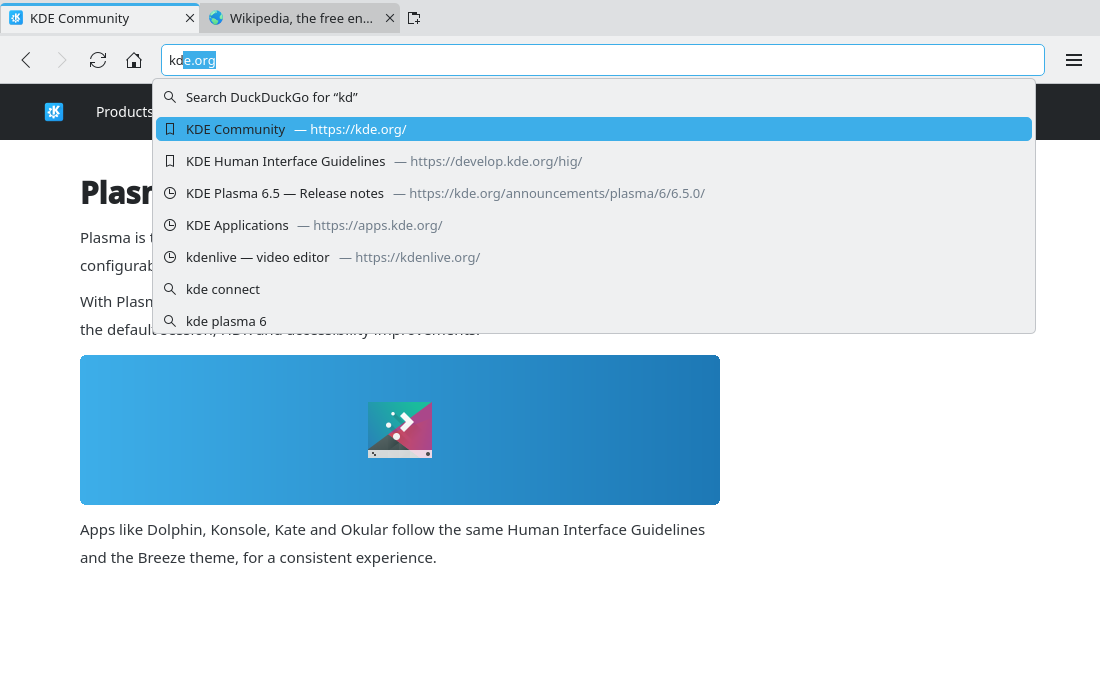
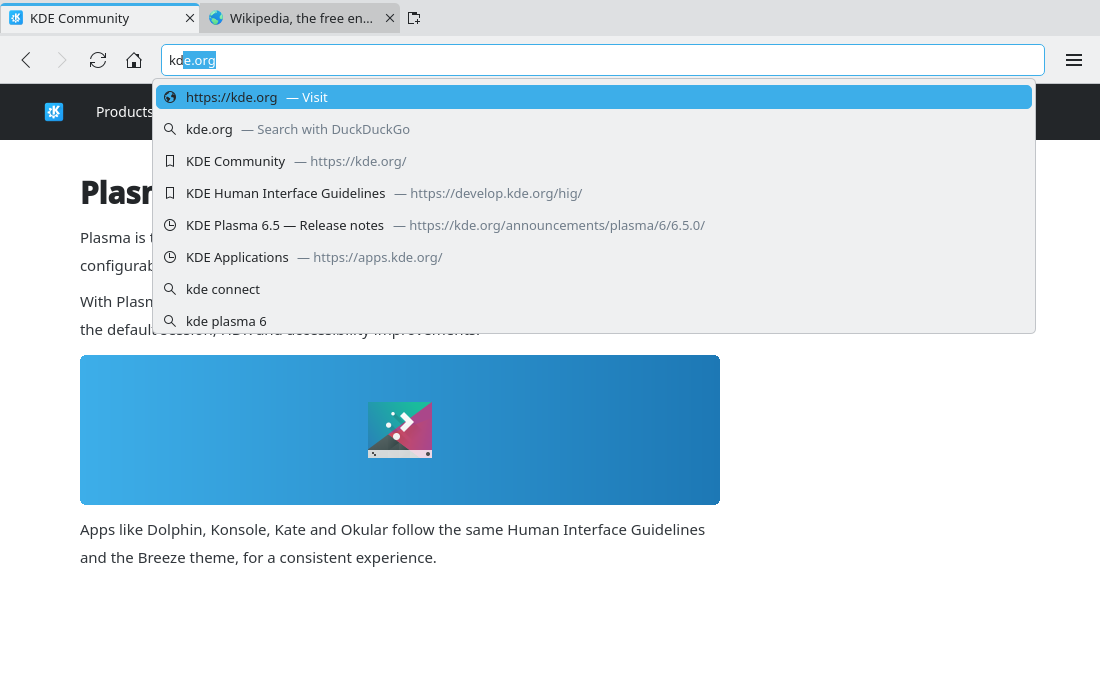
docs: specify the visit-or-search address dropdown (#44) and build #11 on it

Changed region(s): [[0.1236, 0.12, 0.9582, 0.24], [0.1855, 0.27, 0.6491, 0.33], [0.1545, 0.36, 0.4327, 0.39]]

diff --git a/prototypes/11-address-suggestions.qml b/prototypes/11-address-suggestions.qml
@@ -23,12 +23,12 @@ BrowserFrame {
             spacing: 0
             Repeater {
                 model: [
-                    { i: "edit-find", t: "Search DuckDuckGo for “kd”", u: "", sel: false },
-                    { i: "bookmarks", t: "KDE Community", u: "https://kde.org/", sel: true },
+                    { i: "globe", t: "https://kde.org", u: "", s: "Visit", sel: true },
+                    { i: "edit-find", t: "kde.org", u: "", s: "Search with DuckDuckGo", sel: false },
+                    { i: "bookmarks", t: "KDE Community", u: "https://kde.org/", sel: false },
                     { i: "bookmarks", t: "KDE Human Interface Guidelines", u: "https://develop.kde.org/hig/", sel: false },
                     { i: "view-history", t: "KDE Plasma 6.5 — Release notes", u: "https://kde.org/announcements/plasma/6/6.5.0/", sel: false },
                     { i: "view-history", t: "KDE Applications", u: "https://apps.kde.org/", sel: false },
-                    { i: "view-history", t: "kdenlive — video editor", u: "https://kdenlive.org/", sel: false },
                     { i: "edit-find", t: "kde connect", u: "", sel: false },
                     { i: "edit-find", t: "kde plasma 6", u: "", sel: false }
                 ]
@@ -47,7 +47,13 @@ BrowserFrame {
                             elide: Text.ElideRight
                             Layout.fillWidth: true
                         }
-                        Item { visible: modelData.u === ""; Layout.fillWidth: true }
+                        Label {
+                            visible: modelData.u === "" && modelData.s !== undefined
+                            text: "— " + (modelData.s || "")
+                            color: highlighted ? Kirigami.Theme.highlightedTextColor : Kirigami.Theme.disabledTextColor
+                            Layout.fillWidth: true
+                        }
+                        Item { visible: modelData.u === "" && modelData.s === undefined; Layout.fillWidth: true }
                     }
                 }
             }

diff --git a/prototypes/44-address-visit-or-search.qml b/prototypes/44-address-visit-or-search.qml
@@ -1,0 +1,50 @@
+// #44 Address bar: visit or search — the typed text looks like an address, so the dropdown
+// offers "Visit" (selected, what Enter does) and "Search with <engine>".
+import QtQuick
+import QtQuick.Controls
+import QtQuick.Layouts
+import org.kde.kirigami as Kirigami
+import "common"
+
+BrowserFrame {
+    id: frame
+    address: "teste.com.br"
+    addressFocused: true
+    Component.onCompleted: { addressField.forceActiveFocus(); addressField.cursorPosition = 12 }
+    FakePage {}
+
+    Popup {
+        popupType: Popup.Item
+        x: frame.addressField.x
+        y: -6
+        width: frame.addressField.width
+        padding: 0
+        Component.onCompleted: open()
+        contentItem: ColumnLayout {
+            spacing: 0
+            Repeater {
+                model: [
+                    { i: "globe", t: "https://teste.com.br", s: "Visit", sel: true },
+                    { i: "edit-find", t: "teste.com.br", s: "Search with DuckDuckGo", sel: false }
+                ]
+                delegate: ItemDelegate {
+                    id: row
+                    required property var modelData
+                    Layout.fillWidth: true
+                    highlighted: modelData.sel
+                    contentItem: RowLayout {
+                        spacing: Kirigami.Units.largeSpacing
+                        Kirigami.Icon { source: row.modelData.i; Layout.preferredWidth: 16; Layout.preferredHeight: 16 }
+                        Label { text: row.modelData.t; elide: Text.ElideRight; Layout.maximumWidth: 420 }
+                        Label {
+                            text: "— " + row.modelData.s
+                            color: row.highlighted ? Kirigami.Theme.highlightedTextColor : Kirigami.Theme.disabledTextColor
+                            elide: Text.ElideRight
+                            Layout.fillWidth: true
+                        }
+                    }
+                }
+            }
+        }
+    }
+}

diff --git a/docs/specs/0044-address-visit-or-search.md b/docs/specs/0044-address-visit-or-search.md
@@ -1,0 +1,107 @@
+# Address bar: choose between visiting and searching (#44)
+
+> **Issue:** [#44](https://github.com/lukasborges/kondor/issues/44) · **Priority:** P2 (medium) · **State:** see the issue's label (`to-spec` / `to-dev` / `in-review`).
+> Read [`AGENTS.md`](../../AGENTS.md) first. This file is the source of truth for the issue; only the architect edits it.
+
+## Objective
+
+When the typed text looks like an address (`teste.com.br`, `node.js`, `localhost:8080`), the
+address bar shows a dropdown with two choices: **Visit** the address (selected, what Enter does)
+and **Search with <engine>** for the same text. Today such text can only be visited; this lets
+the user search it with one key press (Down, Enter) or a click.
+
+## Context
+
+- `addressBar` (`qml/Main.qml`) is a `TextField`; `onAccepted` calls
+  `tabs.currentTab.navigateTo(ProfileManager.resolveAddress(text))`.
+- `resolveAddress()` (`src/addressresolver.{h,cpp}`, free function, unit-tested in
+  `tests/tst_addressresolver.cpp`) returns the home page for blank text, a URL for
+  `scheme://…`, `about:`, `data:` and host-like text (IP, `localhost`, `name.tld`, optional port
+  and path), else the search URL built from `Settings.searchUrlTemplate()`.
+- The engine is `Settings.searchEngine` (`duckduckgo`, `google`, `startpage`, `brave`, `custom`).
+- #11 (Address bar suggestions, later in the roadmap) will add history, bookmark and network rows
+  to the same dropdown. This issue creates that dropdown.
+
+## Design / behavior
+
+1. **Resolver split** (`src/addressresolver.{h,cpp}`), behavior of `resolveAddress()` unchanged:
+   - `QUrl addressUrl(const QString &text)`: the URL when the trimmed text is an address (the
+     `://` / `about:` / `data:` branch or the host regex), else an empty `QUrl`.
+   - `QUrl searchUrl(const QString &text, const QString &searchTemplate)`: always the search URL.
+   - `resolveAddress()` uses both. Add test cases for the two new functions to
+     `tests/tst_addressresolver.cpp` (address, search text, `node.js`, `localhost:8080`, blank).
+2. **QML access:** `ProfileManager` gets `Q_INVOKABLE QUrl addressUrl(const QString &text) const`
+   and `Q_INVOKABLE QUrl searchUrl(const QString &text) const` (the latter with
+   `Settings::instance()->searchUrlTemplate()`). `Settings` gets
+   `Q_INVOKABLE QString searchEngineName() const`: "DuckDuckGo", "Google", "Startpage",
+   "Brave Search", or `""` for a custom engine (and for an invalid custom URL, which falls back to
+   DuckDuckGo: return "DuckDuckGo" then).
+3. **`qml/AddressSuggestions.qml`** (new, in `QML_FILES`): a `Popup` under `addressBar`
+   (`x`/`width` of the field, `y` = its bottom), `padding: 0`, `focus: false` (the keyboard stays
+   in the field), `closePolicy: Popup.CloseOnEscape | Popup.CloseOnPressOutsideParent`.
+   - API: `property string text`, `property int currentIndex`, `readonly property var rows`,
+     `function activate(index)`, `signal navigate(url url)`.
+   - Rows, rebuilt when `text` changes, only when `ProfileManager.addressUrl(text)` is valid:
+     1. icon `globe`, main label `addressUrl.toDisplayString()`, dimmed suffix
+        `"— " + qsTr("Visit")`;
+     2. icon `edit-find`, main label = the trimmed text, dimmed suffix
+        `"— " + qsTr("Search with %1").arg(Settings.searchEngineName())`, or `"— " + qsTr("Search")`
+        when the name is empty.
+   - Each row is an `ItemDelegate` with `focusPolicy: Qt.NoFocus`, `highlighted` when it is the
+     current row, layout as in the prototype (16 px `Kirigami.Icon`, `Label`, dimmed `Label` in
+     `Kirigami.Theme.disabledTextColor`, `highlightedTextColor` when highlighted).
+4. **`Main.qml` wiring:**
+   - On `textEdited` (user typing only, not programmatic `text` changes): set the popup's `text`;
+     open it with `currentIndex: 0` when it has rows, close it otherwise.
+   - Close it on `activeFocus` loss, blank text, tab switch and after navigating.
+   - `Keys.onDownPressed` / `Keys.onUpPressed` while it is open: move `currentIndex` between 0 and
+     1 (no wrap) and accept the event; when it is closed they keep their current behavior.
+   - `onAccepted`: popup open → act on the current row; closed → `resolveAddress()` as today.
+     Clicking a row acts on it. "Act" = `tabs.currentTab.navigateTo(url)`, close the popup, drop the
+     field focus (as `onAccepted` does today).
+   - Esc with the popup open only closes the popup (the typed text stays).
+5. **No storage, no network:** everything is computed locally; private tabs behave the same and
+   nothing is written.
+6. **Strings:** "Visit", "Search with %1", "Search" in `qsTr()` (translator comment: `%1` is the
+   search engine name), translated in all `i18n/*.ts`. README: mention the Visit/Search choice in
+   Features → Implemented.
+
+## Acceptance criteria
+
+- [ ] Typing `teste.com.br` shows two rows, "https://teste.com.br — Visit" (selected) and
+      "teste.com.br — Search with DuckDuckGo" (engine from Settings).
+- [ ] Enter visits; Down then Enter searches; clicking either row does the same.
+- [ ] Typing plain words (`kde plasma`) shows no dropdown and Enter searches, as today.
+- [ ] Esc closes the dropdown and keeps the text; switching tabs or leaving the field closes it.
+- [ ] `resolveAddress()` results are unchanged (existing tests pass) and the new functions have tests.
+- [ ] Strings translated in every `i18n/*.ts`; matches the prototype.
+
+## Manual test
+
+Use an isolated profile (temporary `XDG_*` dirs, see `AGENTS.md`). Type `teste.com.br`: Enter
+opens `https://teste.com.br`. Type it again, Down, Enter: the search results page. Type
+`localhost:8080`: "http://localhost:8080 — Visit". Type `kde plasma`: no dropdown. Change the
+engine to Google in Settings: the row says "Search with Google". Repeat in a private tab.
+
+## Out of scope
+
+History, bookmark and network suggestions, inline completion (all #11); search keywords (`!w`);
+choosing another engine per search; favicons in rows; middle click to open in a new tab.
+
+## Dependencies
+
+#3 (Settings), #26 (tests). #11 builds on the dropdown created here.
+
+## Prototype
+
+Visual target — match it (controls, Kirigami components, icon names, wording, placement). If it disagrees with this spec, the spec wins.
+
+**Visit or search** — [`prototypes/44-address-visit-or-search.qml`](../../prototypes/44-address-visit-or-search.qml)
+
+![Visit or search](../../prototypes/screenshots/44-address-visit-or-search.png)
+
+## Decisions
+
+| Question | Decision |
+| --- | --- |
+| Show a dropdown for plain search text too? | No: with a single choice it adds nothing. #11 shows the dropdown for every text once it has history/bookmark rows. |

diff --git a/docs/specs/0011-address-bar-suggestions.md b/docs/specs/0011-address-bar-suggestions.md
@@ -17,7 +17,7 @@ While typing in the address bar, show a dropdown with matching history entries, 
    - `HistoryManager` (#1): add `Q_INVOKABLE QVariantList suggest(const QString &text, int limit = 6) const` — `SELECT url, title, COUNT(*) AS visits, MAX(visited_at) AS last FROM history WHERE url LIKE ?1 OR title LIKE ?1 GROUP BY url ORDER BY visits DESC, last DESC LIMIT ?2` (`?1` = `%text%`, escaped). Each item: `{type: "history", url, title}`.
    - `BookmarkManager` (#2): `Q_INVOKABLE QVariantList search(const QString &text, int limit = 4) const` → `{type: "bookmark", url, title}`.
    - **Search suggestions** (only if `Settings.searchSuggestions`, new bool setting, default `false`): `src/searchsuggestions.{h,cpp}` with `QNetworkAccessManager` (`Qt6::Network`), `Q_INVOKABLE void request(const QString &text)` and signal `suggestionsReady(const QString &text, const QStringList &items)`. Endpoint for DuckDuckGo: `https://duckduckgo.com/ac/?q=<text>&type=list` (JSON `["text", ["s1","s2",…]]`); for Google `https://suggestqueries.google.com/complete/search?client=firefox&q=<text>` (same JSON shape). Cancel the previous `QNetworkReply` when a new request starts. Never send requests for private tabs.
-2. **`qml/AddressSuggestions.qml`**: a `Popup` anchored under `addressBar`, width = address bar width, `closePolicy: Popup.CloseOnEscape | Popup.CloseOnPressOutsideParent`, `focus: false` (keyboard stays in the text field). Content: `ListView` with sections: first row always "Search <engine> for “text”" (icon `edit-find`), then bookmarks (icon `bookmarks`), history (icon `view-history`), search suggestions (icon `edit-find`). Each row shows title + URL (dimmed). Max 10 rows.
+2. **`qml/AddressSuggestions.qml`** already exists from #44 (Visit/Search rows, keyboard and click handling): extend it, do not replace it. It now opens for any non-blank typed text. Content: `ListView` with sections: first the #44 rows (for an address: "<url> — Visit" then "<text> — Search with <engine>"; otherwise only the Search row, icon `edit-find`), then bookmarks (icon `bookmarks`), history (icon `view-history`), search suggestions (icon `edit-find`). Each row shows title + URL (dimmed). Max 10 rows.
 3. **Keyboard** in `addressBar`: `Keys.onDownPressed`/`onUpPressed` move `currentIndex` (and write the row URL into the field without triggering a new query); Enter with a selected row navigates to it; Esc closes the popup and restores the typed text; Tab/Shift+Tab ignored.
 4. **Inline completion**: when the text has no spaces and a history URL's host starts with it (`kd` → `kde.org`), set the text to the full host and select the completed part (`select(typedLength, text.length)`); typing Backspace removes the selection without re-completing.
 5. Query on `textEdited` only (not on programmatic `text` changes), debounced 120 ms; don't show the popup when the field is not focused or text is empty.
@@ -45,7 +45,7 @@ Search keywords/shortcuts (`!w`), tab switching from the bar, favicons in rows.
 
 ## Dependencies
 
-#1 (history), #2 (bookmarks), #3 (Settings) for full functionality.
+#44 (the dropdown and its Visit/Search rows), #1 (history), #2 (bookmarks), #3 (Settings) for full functionality.
 
 ## Prototype
 

diff --git a/AGENTS.md b/AGENTS.md
@@ -182,8 +182,9 @@ first: shared blocks, then privacy fixes, then features):
 pt_BR) · 7. #36 Rename to Kondor Browser · 8. #34 Translations for the main KDE languages ·
 9. #26 Automated tests ·
 10. #10 Default browser · 11. #6 Session restore · 12. #2 Bookmarks · 13. #43 New Tab page ·
-14. #7 Site permissions · 15. #9 Security indicator · 16. #8 Fullscreen · 17. #18 Crashed page ·
-18. #13 Page context menu · 19. #11 Address bar suggestions · 20. #14 Multiple windows ·
-21. #15 Single instance · 22. #16 Developer tools · 23. #17 Print and save as PDF ·
-24. #24 Per-site zoom · 25. #23 Spell checking · 26. #22 Reader mode ·
-27. #20 Ad and tracker blocking · 28. #21 Passwords · 29. #25 Flatpak
+14. #44 Address bar: visit or search · 15. #7 Site permissions · 16. #9 Security indicator ·
+17. #8 Fullscreen · 18. #18 Crashed page · 19. #13 Page context menu ·
+20. #11 Address bar suggestions · 21. #14 Multiple windows · 22. #15 Single instance ·
+23. #16 Developer tools · 24. #17 Print and save as PDF · 25. #24 Per-site zoom ·
+26. #23 Spell checking · 27. #22 Reader mode · 28. #20 Ad and tracker blocking ·
+29. #21 Passwords · 30. #25 Flatpak

diff --git a/prototypes/README.md b/prototypes/README.md
@@ -41,6 +41,7 @@ Tips when editing:
 | #8 Fullscreen | `08-fullscreen.qml` |
 | #9 Security indicator / certificate errors | `09-security-indicator.qml`, `09b-certificate-error.qml` |
 | #11 Address bar suggestions | `11-address-suggestions.qml` |
+| #44 Address bar: visit or search | `44-address-visit-or-search.qml` |
 | #12 Tab management | `12-tab-management.qml` |
 | #13 Page context menu | `13-page-context-menu.qml` |
 | #14 Multiple windows | `14-private-window.qml`, `00-main-menu.qml` |
